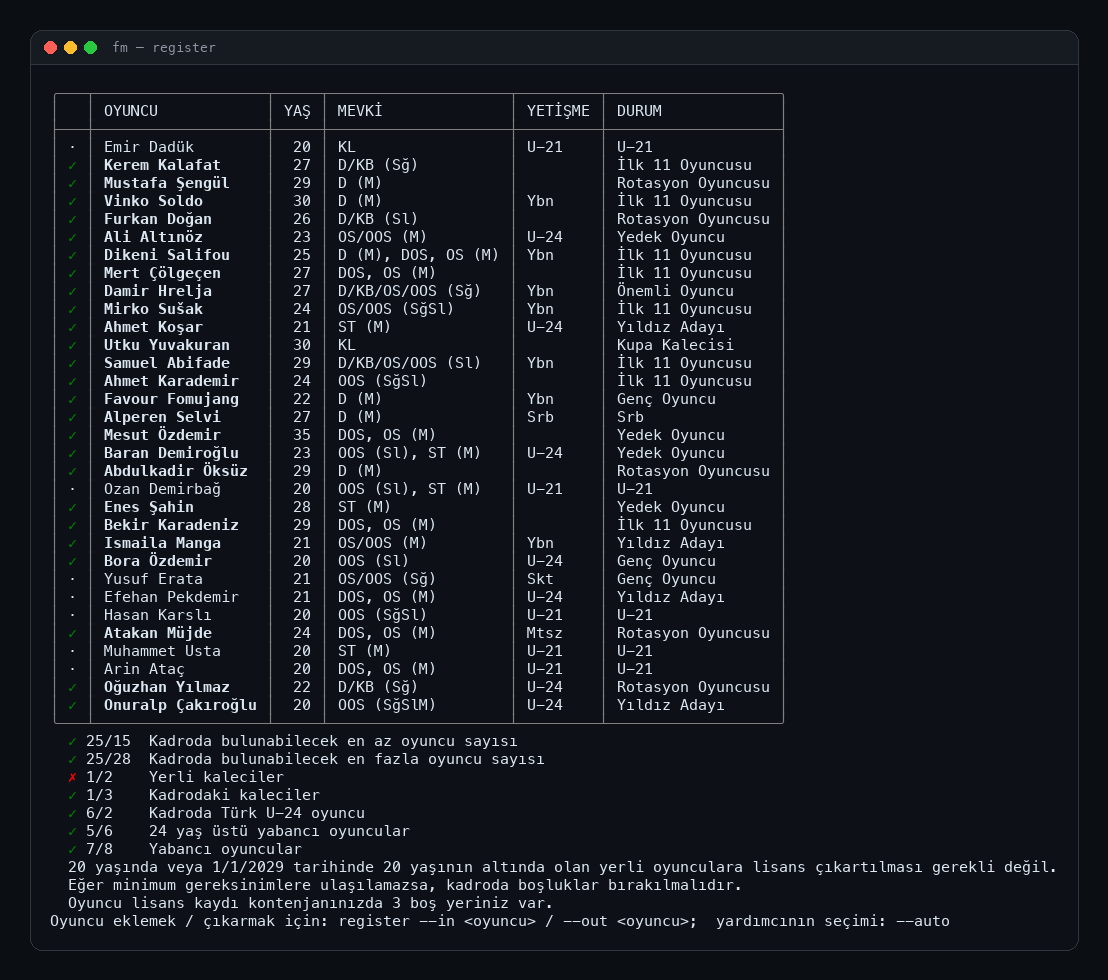
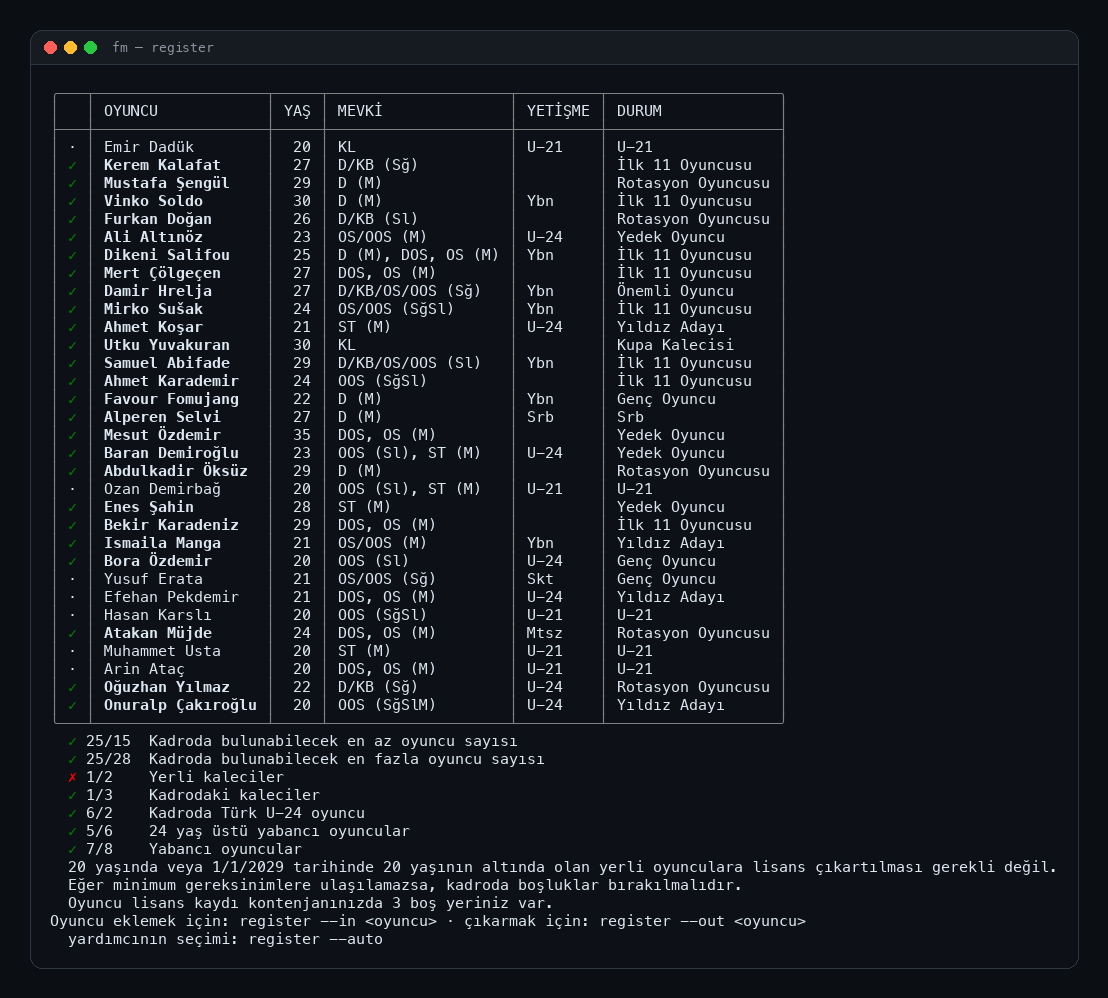
feat: hint lines fit the terminal: a wide one breaks where its parts meet, the rest indented; pipes and MCP get it whole

diff --git a/cli/fm/Core/Ui.cs b/cli/fm/Core/Ui.cs
@@ -100,4 +100,71 @@ internal static class Ui
 	/// <summary>Cuts a name to a width, marking the cut.</summary>
 	public static string Fit(string text, int width) =>
 		text.Length <= width ? text : text[..(width - 1)] + "…";
+
+	/// <summary>
+	/// A hint line ("to apply: advice 1 apply   ·   all seen: …") written so it fits the terminal:
+	/// a line too wide breaks where its parts meet (the ·), the parts after the first indented;
+	/// a part still too wide breaks between words. A pipe, a script or MCP gets the line whole.
+	/// </summary>
+	public static void Hint(string text, TextWriter? to = null)
+	{
+		to ??= Console.Out;
+		// The MCP server's output is always a pipe, whichever writer it swapped in.
+		var terminal = !Console.IsOutputRedirected && (to != Console.Error || !Console.IsErrorRedirected);
+		if (!terminal || Format != null)
+		{
+			to.WriteLine(text);
+			return;
+		}
+		int width;
+		try { width = Console.WindowWidth >= 40 ? Console.WindowWidth : 80; }
+		catch (IOException) { width = 80; }
+		foreach (var line in text.Split('\n'))
+			foreach (var row in HintRows(line, width - 1)) to.WriteLine(row);
+	}
+
+	internal static IEnumerable<string> HintRows(string line, int width)
+	{
+		if (line.Length <= width)
+		{
+			yield return line;
+			yield break;
+		}
+		const string indent = "  ";
+		var separator = line.Contains("   ·   ") ? "   ·   " : " · ";
+		var parts = line.Split(separator).Select(p => p.Trim()).Where(p => p.Length > 0).ToList();
+		var lead = line[..(line.Length - line.TrimStart().Length)];
+		var row = "";
+		var first = true;
+		foreach (var part in parts)
+		{
+			var start = first ? lead : indent;
+			var joined = row.Length == 0 ? start + part : $"{row} · {part}";
+			if (joined.Length <= width)
+			{
+				row = joined;
+				continue;
+			}
+			if (row.Length > 0)
+			{
+				yield return row;
+				first = false;
+				start = indent;
+			}
+			// A part on its own that is still too wide breaks between words.
+			row = start;
+			foreach (var word in part.Split(' ', StringSplitOptions.RemoveEmptyEntries))
+			{
+				var next = row.Trim().Length == 0 ? row + word : $"{row} {word}";
+				if (next.Length > width && row.Trim().Length > 0)
+				{
+					yield return row;
+					first = false;
+					row = indent + word;
+				}
+				else row = next;
+			}
+		}
+		if (row.Length > 0) yield return row;
+	}
 }

diff --git a/cli/fm/Core/Clock.cs b/cli/fm/Core/Clock.cs
@@ -123,7 +123,7 @@ internal static partial class Program
 			if (taken == 0 && !args.Contains("--skip") && await OpenQuestion() is { } asked)
 			{
 				Console.Error.WriteLine(L($"There is an open question{(asked.Length > 0 ? $": \"{asked}\"" : "")}"));
-				Console.Error.WriteLine(L("To answer: talk   ·   to go on without answering: next --skip"));
+				Ui.Hint(L("To answer: talk   ·   to go on without answering: next --skip"), Console.Error);
 				return 1;
 			}
 
@@ -458,7 +458,7 @@ internal static partial class Program
 				// only waits out every read (3 minutes, 6 Nov).
 				if (await VisionControls() != null)
 				{
-					output.WriteLine(L("The club vision meeting is open. Objectives and bargaining: vision   ·   to finish: vision end"));
+					Ui.Hint(L("The club vision meeting is open. Objectives and bargaining: vision   ·   to finish: vision end"), output);
 					return;
 				}
 				// A conversation an answer opened holds its message until it ends; the message is not the step.
@@ -515,7 +515,7 @@ internal static partial class Program
 					// 2026); the button's words are another language's in another game.
 					if (Field(state, "Respond") == "3")
 					{
-						output.WriteLine(L("An offer for one of our players awaits an answer. To see it: offers   ·   to answer: offers <#> view | accept | stall | reject"));
+						Ui.Hint(L("An offer for one of our players awaits an answer. To see it: offers   ·   to answer: offers <#> view | accept | stall | reject"), output);
 						return;
 					}
 					if (await OnlyToRead(state, (await Bound("inbox", "PortalScreen")).EnumerateArray().ToList()))

diff --git a/tests/FmCli.Tests/HintRowsTests.cs b/tests/FmCli.Tests/HintRowsTests.cs
@@ -1,0 +1,33 @@
+using FmCli;
+using Xunit;
+
+namespace FmCli.Tests;
+
+public class HintRowsTests
+{
+	[Fact]
+	public void AShortLineStaysWhole() =>
+		Assert.Equal(["Why: happiness <player>"], Ui.HintRows("Why: happiness <player>", 79));
+
+	[Theory]
+	[InlineData("Details: jobs <club|#>   ·   apply: jobs <club> apply   ·   declare interest: jobs <club> interest   ·   every job: jobs --all")]
+	[InlineData("To change: training <player> --focus \"<focus>\" · --role \"<role>\" · --position \"<position>><role>\"  (a wrong value lists the options)")]
+	[InlineData("Diğer mevkiler: planner --position <biri> GK = KL, DR = D (Sğ), DCR = D (M), DCL = D (M), DL = D (Sl), DMR = DOS, DML = DOS, AMR = OOS (Sğ), AMC = OOS (M)")]
+	public void ALongLineFitsAndKeepsEveryWord(string line)
+	{
+		var rows = Ui.HintRows(line, 79).ToList();
+		Assert.True(rows.Count > 1);
+		Assert.All(rows, r => Assert.True(r.Length <= 79, r));
+		Assert.All(rows.Skip(1), r => Assert.StartsWith("  ", r));
+		var words = (string s) => s.Replace("·", " ").Split(' ', StringSplitOptions.RemoveEmptyEntries);
+		Assert.Equal(words(line), rows.SelectMany(words));
+	}
+
+	[Fact]
+	public void PartsBreakWhereTheyMeet()
+	{
+		var rows = Ui.HintRows("To delegate: responsibilities delegate \"<duty>\"   ·   to someone in particular: responsibilities give \"<duty>\" <person>   ·   to take back: responsibilities take \"<duty>\"", 79).ToList();
+		Assert.Equal("To delegate: responsibilities delegate \"<duty>\"", rows[0]);
+		Assert.StartsWith("  to someone in particular:", rows[1]);
+	}
+}

diff --git a/cli/fm/Match/MatchDay.Team.cs b/cli/fm/Match/MatchDay.Team.cs
@@ -148,19 +148,19 @@ internal static partial class Program
 		// mends that. It is known by the wizard's Start, which the set pieces tab carries only while none is set up.
 		if (await SetPiecesUnset())
 		{
-			Console.Error.WriteLine(L($"{problem} The team has no set piece routines, and the game will not start the match without them. To set them up: setpieces new   ·   then: match"));
+			Ui.Hint(L($"{problem} The team has no set piece routines, and the game will not start the match without them. To set them up: setpieces new   ·   then: match"), Console.Error);
 			return 1;
 		}
 
 		if (!Ui.Interactive)
 		{
-			Console.Error.WriteLine(L($"{problem} To have the assistant pick again: tactic pick (youth players too: tactic pick --youth)   ·   yourself: tactic player <position> <player>   ·   then: match"));
+			Ui.Hint(L($"{problem} To have the assistant pick again: tactic pick (youth players too: tactic pick --youth)   ·   yourself: tactic player <position> <player>   ·   then: match"), Console.Error);
 			return 1;
 		}
 		var choice = Ui.Ask(problem, [L("Let the assistant pick again (Quick Pick)"), L("Let the assistant pick, youth players too")], cancel: L("I will change it myself, leave the match"));
 		if (choice == null)
 		{
-			Console.WriteLine(L("For the squad: tactic player <position> <player>   ·   then: match"));
+			Ui.Hint(L("For the squad: tactic player <position> <player>   ·   then: match"));
 			return 0;
 		}
 		return await TacticPick(dry: false, youth: choice == 1) != 0 ? 1 : null;

diff --git a/cli/fm/Squad/Takers.cs b/cli/fm/Squad/Takers.cs
@@ -42,7 +42,7 @@ internal static partial class Program
 			var kind = SetPieceKinds.FirstOrDefault(k => k.Words.Contains(Fold(words[0])));
 			if (kind.Say == null)
 			{
-				Console.Error.WriteLine(L($"'{words[0]}' is not a set piece type.\n{TakersUsage}"));
+				Ui.Hint(L($"'{words[0]}' is not a set piece type.\n{TakersUsage}"), Console.Error);
 				return 64;
 			}
 			kinds = [kind];
@@ -57,7 +57,7 @@ internal static partial class Program
 			verb = words.Count > 1 ? PenaltyVerb(words[1]) : null;
 			if (side == null || verb == null)
 			{
-				Console.Error.WriteLine(TakersUsage);
+				Ui.Hint(TakersUsage, Console.Error);
 				return 64;
 			}
 			words.RemoveRange(0, 2);
@@ -154,7 +154,7 @@ internal static partial class Program
 		if (verb == null)
 		{
 			var name = kinds[0].Words[0];
-			Console.WriteLine(L($"\nOrder: takers {name} <right|left> move <player> <place> · add <player> [<place>] · remove <player>"));
+			Ui.Hint(L($"\nOrder: takers {name} <right|left> move <player> <place> · add <player> [<place>] · remove <player>"));
 		}
 		return 0;
 	}
@@ -266,7 +266,7 @@ internal static partial class Program
 		var who = string.Join(" ", words.Where(w => !int.TryParse(w, out _)));
 		if (who.Length == 0)
 		{
-			Console.Error.WriteLine(TakersUsage);
+			Ui.Hint(TakersUsage, Console.Error);
 			return 64;
 		}
 		var before = await listed();

diff --git a/cli/fm/Transfer/Targets.cs b/cli/fm/Transfer/Targets.cs
@@ -63,7 +63,7 @@ internal static partial class Program
 			Console.WriteLine(L($"Wage budget (weekly): {wage}"));
 		}
 		var found = await Players(json, ["players", "--position", slot, .. (limited ? [] : new[] { "--max-value", transfer }), .. passed]);
-		if (found == 0 && !json) Console.WriteLine(L("Narrow it: --age 18-23 · --grade B · --listed · --loan-listed · --attr \"pace>=14\"   (the search stays open in the game: players --clear)"));
+		if (found == 0 && !json) Ui.Hint(L("Narrow it: --age 18-23 · --grade B · --listed · --loan-listed · --attr \"pace>=14\"   (the search stays open in the game: players --clear)"));
 		return found;
 	}
 
@@ -111,7 +111,7 @@ internal static partial class Program
 			if (Ui.Rich) Ui.Line($"  [bold]{Ui.Safe(PositionShown(slot)),-4}[/] [red]{Ui.Safe(who)}[/][dim]{Ui.Safe(out_)}[/]");
 			else Console.WriteLine($"  {PositionShown(slot),-4} {who}{out_}");
 		}
-		Console.WriteLine(L($"\nOther positions: {string.Join(" · ", depth.Where(d => d.Fit.Count > 1).Select(d => $"{PositionShown(d.Slot)} {d.Fit.Count}"))}"));
+		Ui.Hint(L($"\nOther positions: {string.Join(" · ", depth.Where(d => d.Fit.Count > 1).Select(d => $"{PositionShown(d.Slot)} {d.Fit.Count}"))}"));
 		Console.WriteLine(L($"\nTo search: targets <position>   (e.g. targets {PositionShown("DL")}, targets \"left back\")"));
 		return 0;
 	}

diff --git a/cli/fm/Squad/SetPieceRoutine.cs b/cli/fm/Squad/SetPieceRoutine.cs
@@ -80,7 +80,7 @@ internal static partial class Program
 		var kind = SetPieceKinds.FirstOrDefault(k => k.Words.Contains(Fold(words[0])));
 		if (kind.Say == null)
 		{
-			Console.Error.WriteLine(L($"'{words[0]}' is not a set piece type.\n{RoutineUsage}"));
+			Ui.Hint(L($"'{words[0]}' is not a set piece type.\n{RoutineUsage}"), Console.Error);
 			return 64;
 		}
 		// The hints name the kind in the word the user typed ("corner" or "korner"), not the list's first.
@@ -117,7 +117,7 @@ internal static partial class Program
 
 		if (words.Count > 0)
 		{
-			if (words.Count < 2) { Console.Error.WriteLine(RoutineUsage); return 64; }
+			if (words.Count < 2) { Ui.Hint(RoutineUsage, Console.Error); return 64; }
 			var what = Fold(words[0]);
 			if (what is "vurus" or "delivery")
 			{
@@ -218,7 +218,7 @@ internal static partial class Program
 		if (words.Count == 0)
 		{
 			var name = kind.Words[0];
-			Console.WriteLine(L($"\nTo change: setpieces {name} delivery <in|out> · aim <option> · <place> <duty>   (duties: setpieces {name} <place> ?)"));
+			Ui.Hint(L($"\nTo change: setpieces {name} delivery <in|out> · aim <option> · <place> <duty>   (duties: setpieces {name} <place> ?)"));
 		}
 		return 0;
 	}

diff --git a/cli/fm/Squad/IndividualTraining.cs b/cli/fm/Squad/IndividualTraining.cs
@@ -111,7 +111,7 @@ internal static partial class Program
 			return 0;
 		}
 		Table.Write([L("PLAYER"), .. TrainingParts.Select(p => p.ToUpperInvariant())], sorted.Select(r => (string[])[r.Name, .. r.Parts.Select(GameWords.Of)]).ToList());
-		Console.WriteLine(L("\nTo change: training <player> --focus \"<focus>\" · --role \"<role>\" · --position \"<position>><role>\"  (a wrong value lists the options)"));
+		Ui.Hint(L("\nTo change: training <player> --focus \"<focus>\" · --role \"<role>\" · --position \"<position>><role>\"  (a wrong value lists the options)"));
 		return 0;
 	}
 
@@ -209,7 +209,7 @@ internal static partial class Program
 		var takeOver = Field(list, "Enabled") != "True";
 		if (takeOver && control == null)
 		{
-			Console.Error.WriteLine(L($"{player.Name}: your assistant looks after his individual training. To take it over: --control player (him only) · month (him, for the next month) · all (every player)"));
+			Ui.Hint(L($"{player.Name}: your assistant looks after his individual training. To take it over: --control player (him only) · month (him, for the next month) · all (every player)"), Console.Error);
 			return 1;
 		}
 

diff --git a/cli/fm/Club/Coaches.cs b/cli/fm/Club/Coaches.cs
@@ -153,11 +153,11 @@ internal static partial class Program
 		table.Add(new[] { L("workload") }.Concat(CoachAreas.Select((_, i) => i < areas.Count ? areas[i].Load : "")).ToArray());
 		table.Add(new[] { L("lead coach") }.Concat(CoachAreas.Select((_, i) => i < areas.Count ? Stars(areas[i].HalfStars) is { Length: > 0 } st ? st : L("none") : "")).ToArray());
 		Table.Write(headers, table);
-		Console.WriteLine(L("ATT attacking · DEF defending · POS possession · TAC tactical · TEC technical · FIT fitness · SPC set pieces"));
+		Ui.Hint(L("ATT attacking · DEF defending · POS possession · TAC tactical · TEC technical · FIT fitness · SPC set pieces"));
 
 		var empty = CoachAreas.Where((_, i) => !rows.Any(r => r.Cells[i].On)).Select(a => a.Turkish.ToLowerInvariant()).ToList();
 		if (empty.Count > 0) Console.WriteLine(L($"Area with no coach: {string.Join(", ", empty)}"));
-		Console.WriteLine(L("To assign: coaches <coach> <area>   (to remove: --off;  to leave it to the assistant: --auto)"));
+		Ui.Hint(L("To assign: coaches <coach> <area>   (to remove: --off;  to leave it to the assistant: --auto)"));
 	}
 
 	/// <summary>

diff --git a/cli/fm/Club/Responsibilities.cs b/cli/fm/Club/Responsibilities.cs
@@ -68,8 +68,8 @@ internal static partial class Program
 				Table.Write([L("JOB"), L("WHO HAS IT"), ""], group.Select(d => new[] { d.Title, d.Holder, d.Mine ? L("yours") : d.CanTake ? L("delegated") : L("delegated (locked)") }).ToList());
 			}
 		}
-		if (area == null && typed.Length == 0) Console.WriteLine(L("\nOne area only: responsibilities media | training | tactics | match day | set pieces | transfer | scouting | staff | board"));
-		Console.WriteLine(L("\nTo delegate: responsibilities delegate \"<duty>\"   ·   to someone in particular: responsibilities give \"<duty>\" <person>   ·   to take back: responsibilities take \"<duty>\""));
+		if (area == null && typed.Length == 0) Ui.Hint(L("\nOne area only: responsibilities media | training | tactics | match day | set pieces | transfer | scouting | staff | board"));
+		Ui.Hint(L("\nTo delegate: responsibilities delegate \"<duty>\"   ·   to someone in particular: responsibilities give \"<duty>\" <person>   ·   to take back: responsibilities take \"<duty>\""));
 		return 0;
 	}
 

diff --git a/cli/fm/Club/Vision.cs b/cli/fm/Club/Vision.cs
@@ -192,7 +192,7 @@ internal static partial class Program
 					Console.Error.WriteLine(L($"'{goal.Text}' is still there: the game did not take it out."));
 					return 1;
 				}
-				Console.WriteLine(L($"Removed: {goal.Text}. To put it to the board: vision suggest   ·   to undo: vision undo"));
+				Ui.Hint(L($"Removed: {goal.Text}. To put it to the board: vision suggest   ·   to undo: vision undo"));
 				return 0;
 			}
 		}
@@ -221,7 +221,7 @@ internal static partial class Program
 			last = goals[i].Actionable;
 			Console.WriteLine($"  {i + 1}  {goals[i].Text} — {goals[i].Weight}{(goals[i].Removable ? "" : L(" (cannot be removed)"))}");
 		}
-		Console.WriteLine(L("\nAccept: vision confirm   ·   remove an objective: vision remove <no>, then vision suggest   ·   undo: vision undo / reset   ·   finish: vision end"));
+		Ui.Hint(L("\nAccept: vision confirm   ·   remove an objective: vision remove <no>, then vision suggest   ·   undo: vision undo / reset   ·   finish: vision end"));
 		return 0;
 	}
 }

diff --git a/cli/fm/Match/OppositionCard.cs b/cli/fm/Match/OppositionCard.cs
@@ -180,7 +180,7 @@ internal static partial class Program
 		else
 			Table.Write([L("PLAYER"), .. OppositionColumns.Select(c => c.Head)], rows.Select(r => new[] { Field(r, "Name") }.Concat(OppositionColumns.Select(c => Value(r, c.Key))).ToArray()).ToList());
 		if (words.Count == 0 && !args.Contains("--advice") && !args.Contains("--clear"))
-			Console.WriteLine(L("\nThe assistant's suggestion: opposition --advice · clear: --clear · by hand: opposition <player> Pressing=Always Tackling=Hard"));
+			Ui.Hint(L("\nThe assistant's suggestion: opposition --advice · clear: --clear · by hand: opposition <player> Pressing=Always Tackling=Hard"));
 		return 0;
 
 		// The plugin reads the choices in English, but they are shown, and the help line names them,
